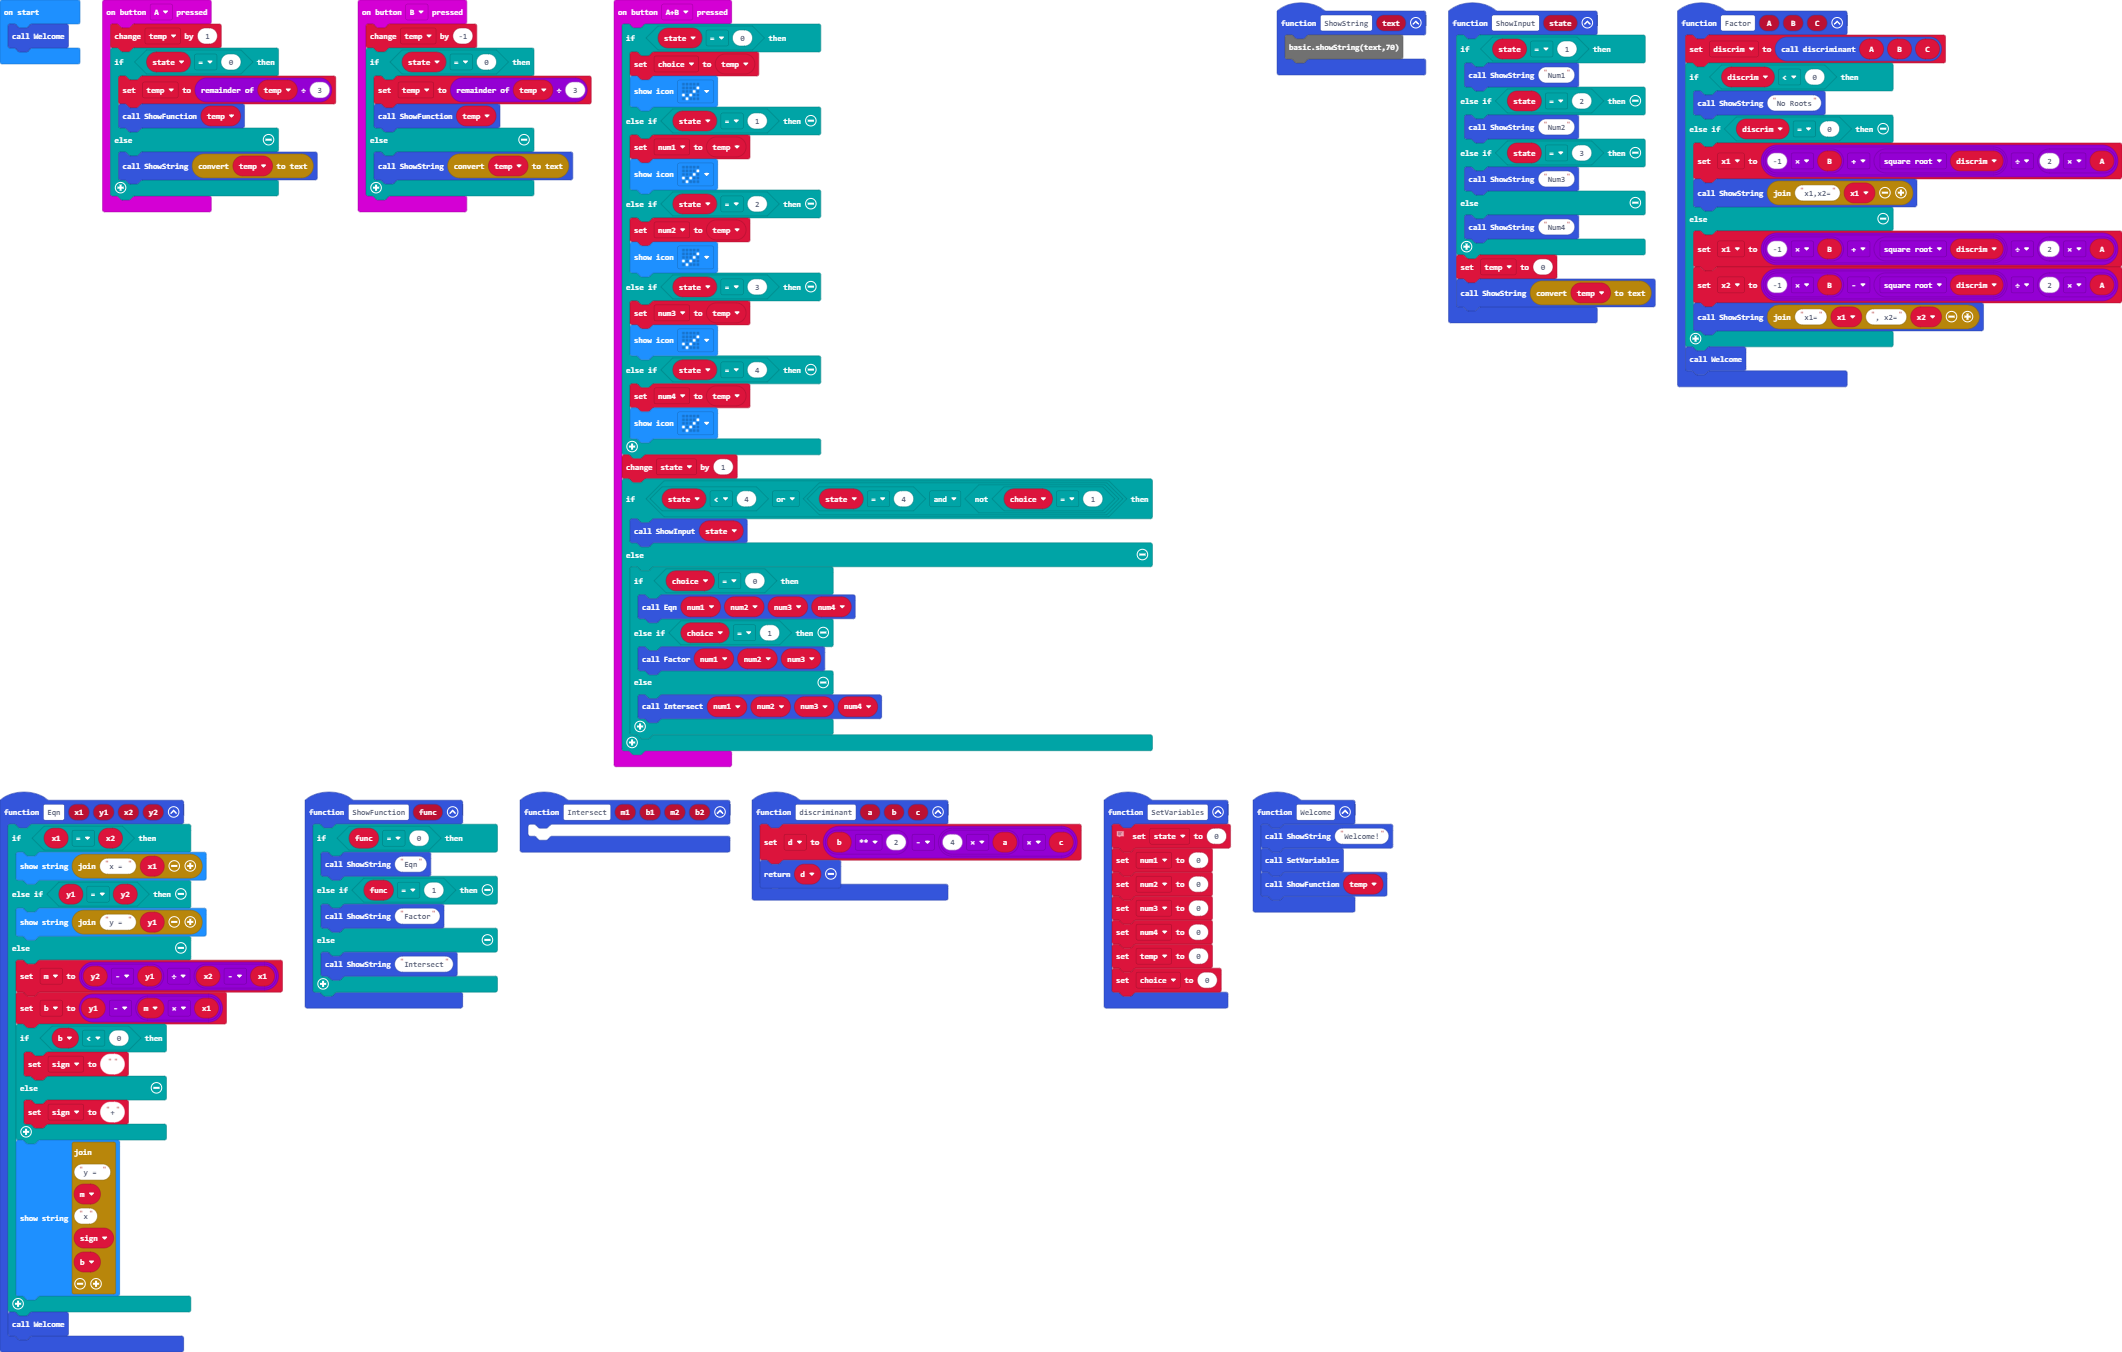
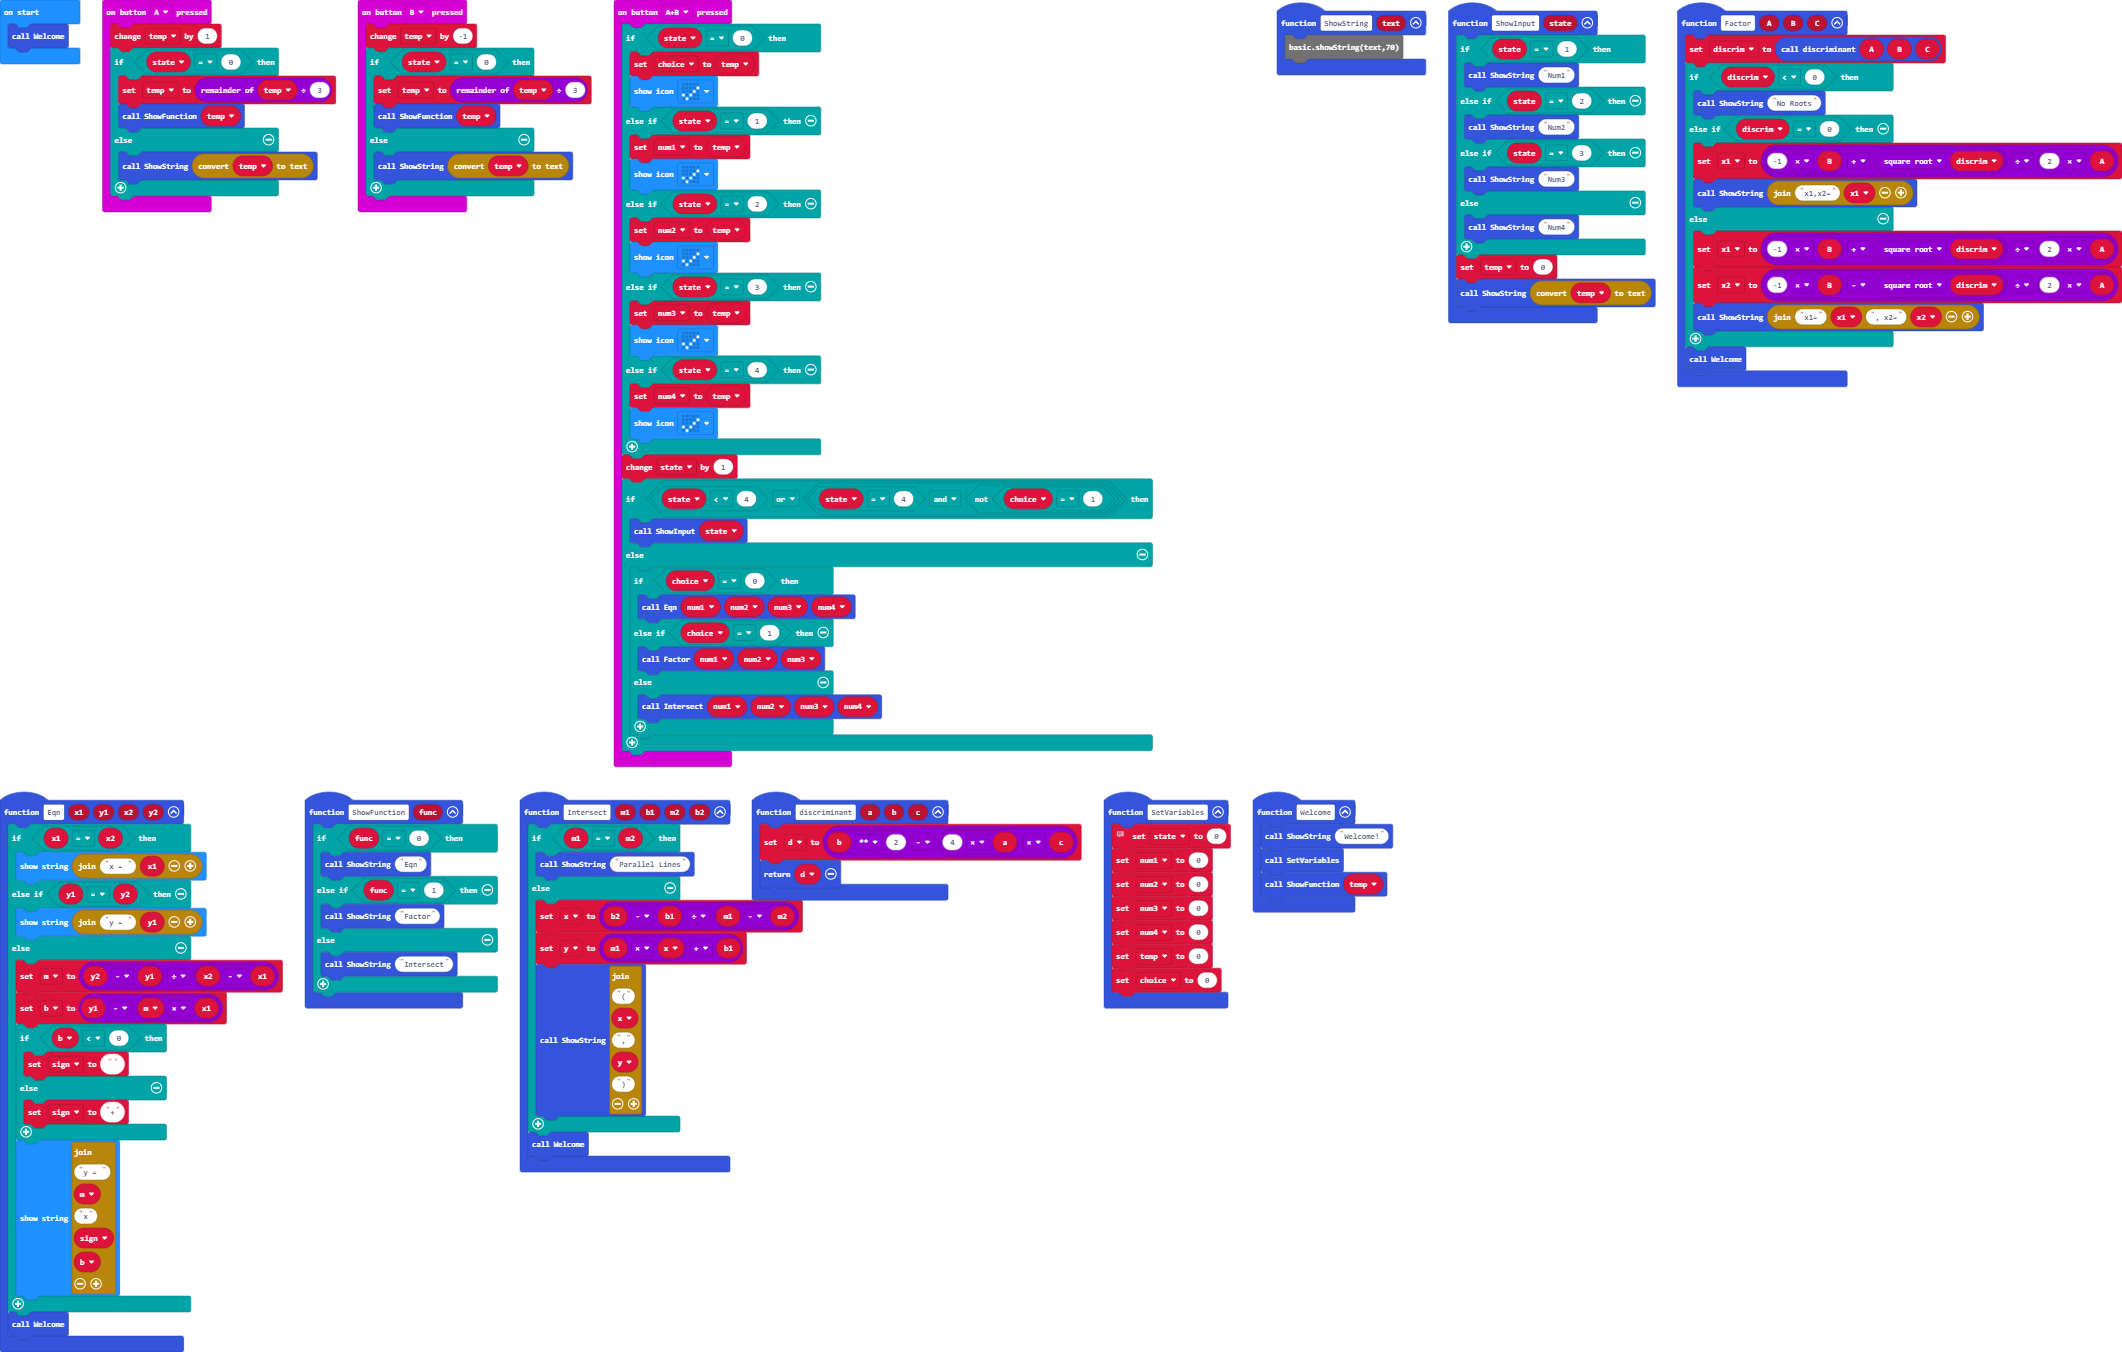
Finished Intersect Program

Changed region(s): [[0.2177, 0.5902, 0.3732, 0.8698]]

diff --git a/main.ts b/main.ts
@@ -112,7 +112,14 @@ input.onButtonPressed(Button.B, function () {
     }
 })
 function Intersect (m1: number, b1: number, m2: number, b2: number) {
-	
+    if (m1 == m2) {
+        ShowString("Parallel Lines")
+    } else {
+        x = (b2 - b1) / (m1 - m2)
+        y = m1 * x + b1
+        ShowString("(" + x + "," + y + ")")
+    }
+    Welcome()
 }
 function SetVariables () {
     // 0=function
@@ -129,6 +136,8 @@ function SetVariables () {
     temp = 0
     choice = 0
 }
+let y = 0
+let x = 0
 let d = 0
 let num4 = 0
 let num3 = 0
